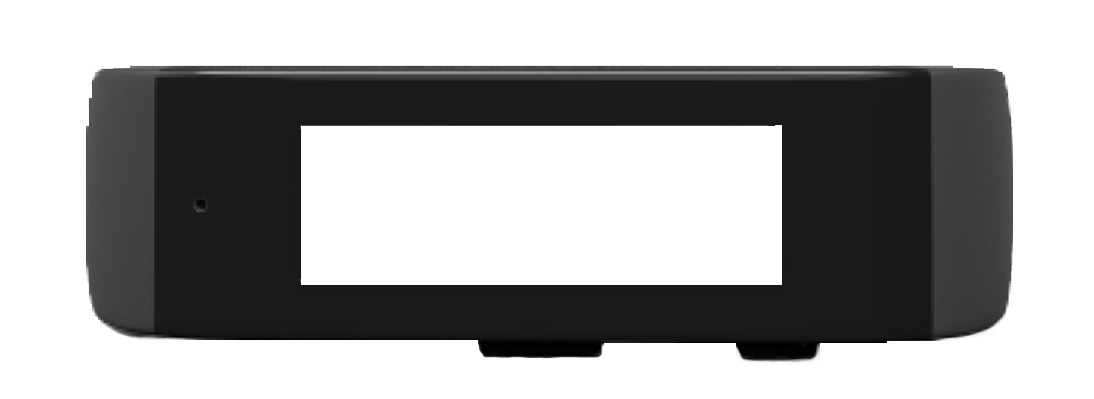
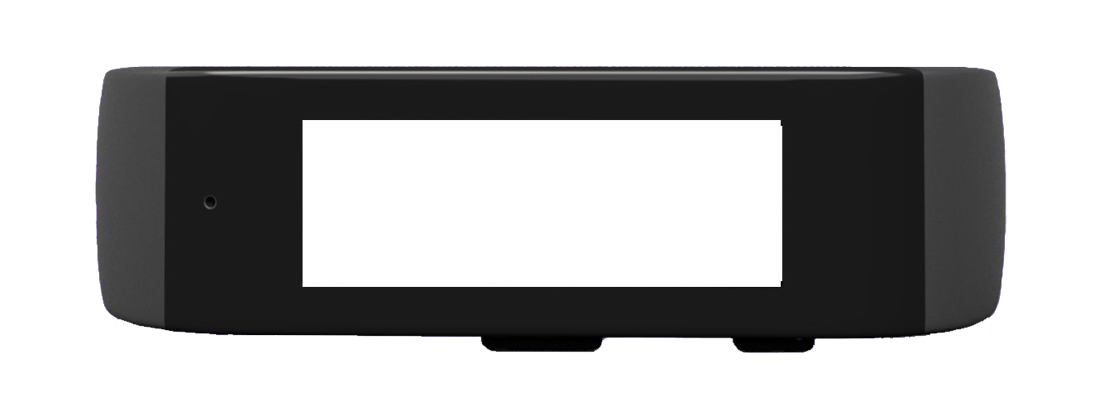
Change Band background for Band 1. Fixed the issue with the text being invisible on the white theme. Also the text font size now are 12 , which better represent the wrapping on the Band

Changed region(s): [[0.0622, 0.1504, 0.9324, 0.9323], [0.2797, 0.6917, 0.7148, 0.7218], [0.2797, 0.3008, 0.7148, 0.3308]]

diff --git a/NotesOnBand/NotesOnBand/Controls/BandControl.xaml b/NotesOnBand/NotesOnBand/Controls/BandControl.xaml
@@ -54,13 +54,14 @@
                                            RelativePanel.AlignTopWithPanel="True"           
                                            RelativePanel.AlignLeftWithPanel="True"                
                                            Text="{Binding Title}"
-                                           FontSize="11"></TextBlock>
+                                           FontSize="12"></TextBlock>
 
                                     <TextBlock RelativePanel.Below="TitleTextBlock"       
                                            RelativePanel.AlignLeftWithPanel="True"    
                                            Text="{Binding Content}"
                                            TextWrapping="Wrap"
-                                           FontSize="11"></TextBlock>
+                                           FontSize="12"
+                                               Foreground="White"></TextBlock>
                                 </RelativePanel>
                             </ScrollViewer>
                         </Grid>

diff --git a/NotesOnBand/NotesOnBand/Controls/BandControl.xaml.cs b/NotesOnBand/NotesOnBand/Controls/BandControl.xaml.cs
@@ -42,8 +42,8 @@ namespace NotesOnBand.Controls
         public static string DEFAULT_BAND2_BACKGROUND_LOCATION = "ms-appx:///Assets/Band2.png";
         public static string DEFAULT_BAND1_BACKGROUND_LOCATION = "ms-appx:///Assets/Band1.png";
 
-        private static Thickness _band2ScreenGridMargin = new Thickness(99, 70, 102, 67);
-        private static Thickness _band1ScreenGridMargin = new Thickness(99, 75, 102, 72);
+        private static Thickness _band2ScreenGridMargin = new Thickness(99, 68, 102, 67);
+        private static Thickness _band1ScreenGridMargin = new Thickness(99, 73, 102, 71);
 
         private ImageSource _bandImage = new BitmapImage(new Uri(DEFAULT_BAND2_BACKGROUND_LOCATION));
         private BandVersion _version = BandVersion.MicrosoftBand2;
